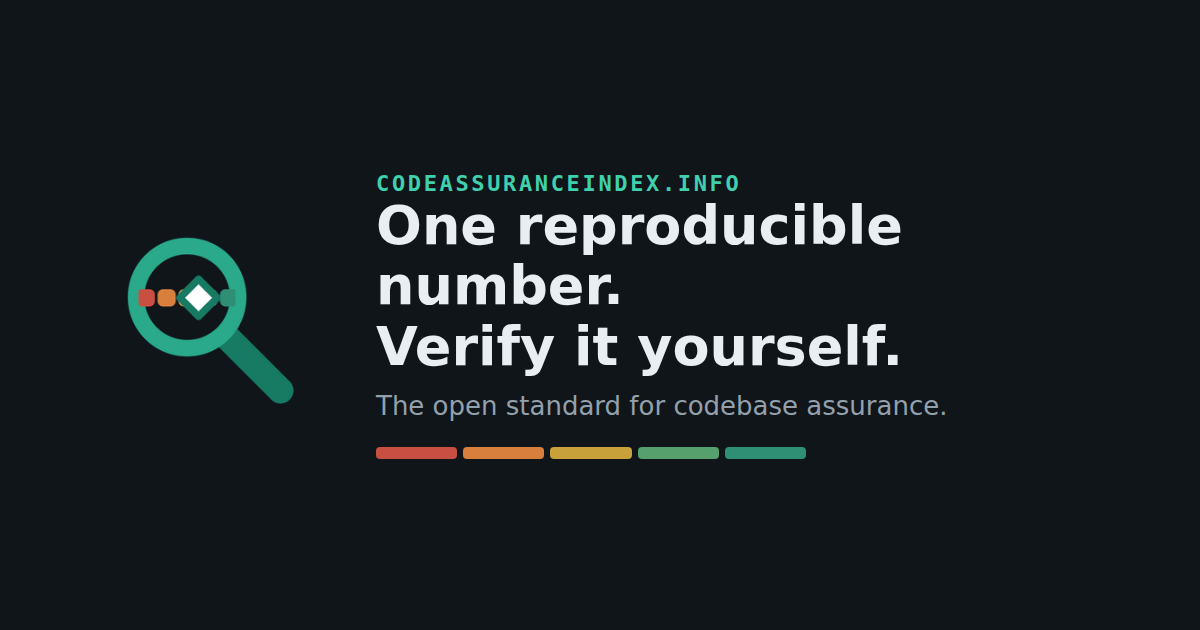
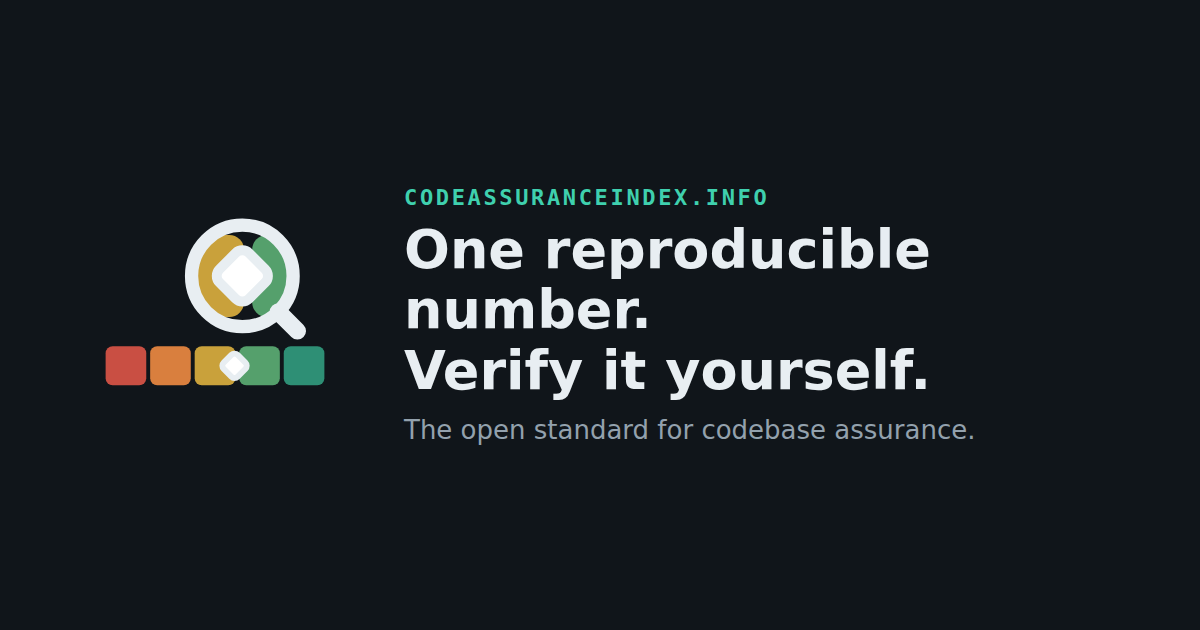
Brand: V3 — the band under the glass, in currentColor
Founder-picked iteration: the five-band scale is the dominant element
and the mark's only colour; the glass lifts off it as a callout showing
the magnified reading. Instrument ink is currentColor — one SVG master
serves both themes. Favicon becomes an app-icon tile (raster cannot
inherit ink); share card rebuilt.

Changed region(s): [[0.3083, 0.2714, 0.8017, 0.754], [0.0617, 0.3317, 0.2775, 0.6333]]

diff --git a/docs/brand/og-card.html b/docs/brand/og-card.html
@@ -1,0 +1,17 @@
+<style>
+body{margin:0;width:1200px;height:630px;background:#10151a;display:flex;align-items:center;justify-content:center;font-family:"DejaVu Sans",system-ui,sans-serif}
+.card{display:flex;align-items:center;gap:64px;padding:0 90px}
+.mark{width:250px;height:250px;color:#e8eef2;flex:none}
+.mark svg{width:100%;height:100%}
+.t h1{color:#e8eef2;font-size:54px;line-height:1.12;margin:0 0 14px;font-weight:700}
+.t p{color:#93a1ad;font-size:26px;margin:0}
+.wm{color:#3fd0ae;font-family:"DejaVu Sans Mono",monospace;font-weight:700;font-size:22px;letter-spacing:.12em;margin-bottom:10px}
+</style>
+<div class="card">
+  <div class="mark"><svg xmlns="http://www.w3.org/2000/svg" viewBox="0 0 64 64"><rect x="4.00" y="40.00" width="10.40" height="10.00" rx="1.8" fill="#c94f43"/><rect x="15.40" y="40.00" width="10.40" height="10.00" rx="1.8" fill="#d97f3e"/><rect x="26.80" y="40.00" width="10.40" height="10.00" rx="1.8" fill="#c9a13b"/><rect x="38.20" y="40.00" width="10.40" height="10.00" rx="1.8" fill="#55a06c"/><rect x="49.60" y="40.00" width="10.40" height="10.00" rx="1.8" fill="#2e8f75"/><rect x="34.45" y="42.45" width="5.09" height="5.09" rx="1.15" transform="rotate(45 37.00 45.00)" fill="#ffffff" stroke="currentColor" stroke-width="1.50"/><defs><clipPath id="z3"><circle cx="39" cy="22" r="11.8"/></clipPath></defs><g clip-path="url(#z3)"><g transform="translate(39,22) scale(2.1) translate(-37,-45)"><rect x="4.00" y="40.00" width="10.40" height="10.00" rx="1.8" fill="#c94f43"/><rect x="15.40" y="40.00" width="10.40" height="10.00" rx="1.8" fill="#d97f3e"/><rect x="26.80" y="40.00" width="10.40" height="10.00" rx="1.8" fill="#c9a13b"/><rect x="38.20" y="40.00" width="10.40" height="10.00" rx="1.8" fill="#55a06c"/><rect x="49.60" y="40.00" width="10.40" height="10.00" rx="1.8" fill="#2e8f75"/><rect x="34.45" y="42.45" width="5.09" height="5.09" rx="1.15" transform="rotate(45 37.00 45.00)" fill="#ffffff" stroke="currentColor" stroke-width="1.20"/></g></g><line x1="48.2" y1="31.2" x2="53.1" y2="36.1" stroke="currentColor" stroke-width="4.4" stroke-linecap="round"/><circle cx="39" cy="22" r="13" fill="none" stroke="currentColor" stroke-width="3.4"/></svg></div>
+  <div class="t">
+    <div class="wm">CODEASSURANCEINDEX.INFO</div>
+    <h1>One reproducible number.<br>Verify it yourself.</h1>
+    <p>The open standard for codebase assurance.</p>
+  </div>
+</div>

diff --git a/docs/brand/README.md b/docs/brand/README.md
@@ -1,14 +1,19 @@
 # The CAI mark
 
-The lens over the pin: an independent inspection (the reader's magnifying glass — "verify it
-yourself") over the standard's own reading, the pin on the fixed five-band scale. Deliberately
-at arm's length from the Canine Development identity: CAI's own teal plus the band colours,
-no shared glyphs.
+The band under the glass. The five-band scale is the mark's only colour and its dominant
+element; the magnifying glass lifts off it as a callout, showing the reading — the pin at
+the yellow/green boundary — magnified. An independent inspection (the reader's glass:
+"verify it yourself") of the standard's own scale. Deliberately at arm's length from the
+Canine Development identity: no shared glyphs, and the instrument itself carries no brand
+colour at all.
 
-- `cai-logo-256.png` — the mark, transparent, for headers and square contexts.
-- `cai-favicon-64.png` — the bold cut: thicker ring, taller bands, larger pin, tuned to survive 16 px.
-- `cai-og.png` — the 1200×630 share card.
-- `generate.py` — regenerates all three; the geometry lives there, not in a drawing tool.
+- `cai-mark.svg` — the master. Ring, handle and pin outline are drawn in `currentColor`,
+  so ONE file is black on a light ground and white on a dark one; the band is the only
+  fixed colour. Inline it (imprint inlines vector assets) — referenced as an <img> it
+  loses the ink inheritance.
+- `cai-favicon-64.png` — the app-icon cut: the mark on a dark rounded tile, because a
+  browser tab's ground is unknown and currentColor cannot reach a raster.
+- `cai-og.png` / `og-card.html` — the 1200×630 share card and the HTML that renders it
+  (headless Chrome at 1200×630).
 
-Palette: ring/handle teal `#2aa98b` / `#177a63`; bands `#c94f43 #d97f3e #c9a13b #55a06c #2e8f75`;
-pin white with dark-teal outline (reads on dark and light grounds without a second rendition).
+Band colours: `#c94f43 #d97f3e #c9a13b #55a06c #2e8f75`. Pin fill white in every rendition.
